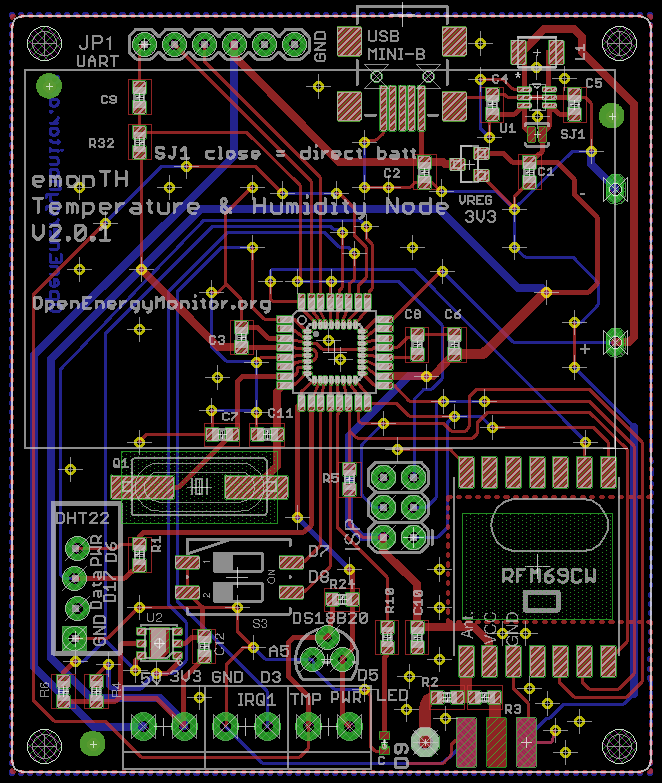
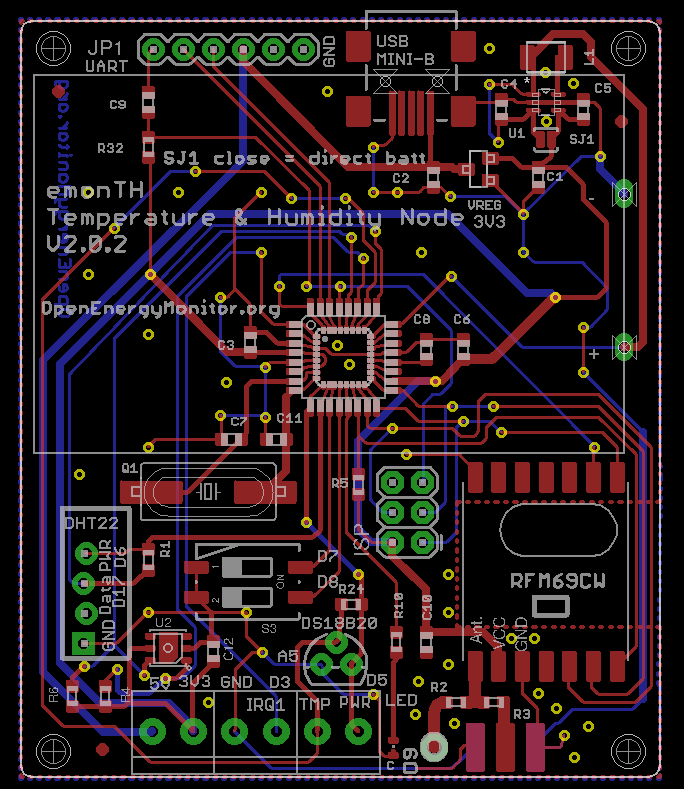
update portmap & sch + brd img

diff --git a/hardware/readme.md b/hardware/readme.md
@@ -19,31 +19,31 @@
 
 # Port Map
 
-|                |           |            |                       |                       |
-|----------------|-----------|------------|-----------------------|-----------------------|
-| Arduino        | ATmega328 | Function   | emonTH V1.5           | emonTH V2             |
-| Analog 0 (D14) | PC0       |            |                       |                       |
-| Analog 1 (D15) | PC1       |            | 2x AA Battery Voltage | 2x AA Battery Voltage |
-| Analog 2 (D16) | PC2       |            |                       | DHT22 Data            |
-| Analog 3 (D17) | PC3       |            |                       | DS18B20 One-wire Data |
-| Analog 4 (D18) | PC4       | (SDA)      | DHT22 Data            | SI7021 SDA (Data)     |
-| Analog 5 (D19) | PC5       | (SCL)      | DS18B20 One-wire Data | SI7021 SCL (SCK)      |
-| Analog 6 (D20) |           |            |                       |                       |
-| Analog 7 (D21) |           |            |                       |                       |
-| Digital 0      | PD0       | (RXD)      | FTDI Tx               | FTDI Tx               |
-| Digital 1      | PD1       | (TXD)      | FTDI Rx               | FTDI Rx               |
-| Digital 2      | PD2       | (int0) PWM | RFM12B IRQ            | RFM69CW IRQ           |
-| Digital 3      | PD3       | (int1) PWM | Terminal block        | Terminal block        |
-| Digital 4      | PD4       |            |                       |                       |
-| Digital 5      | PD5       | PWM        | DS18B20 PWR           | DS18B20 PWR           |
-| Digital 6      | PD6       | PWM        | DHT22 PWR             | DHT22 PWR             |
-| Digital 7      | PD7       |            | DIP 1                 | DIP 1                 |
-| Digital 8      | PB0       |            | DIP 2                 | DIP 2                 |
-| Digital 9      | PB1       | PWM        | LED                   | LED                   |
-| Digital 10     | PB2       | (SS) PWM   | RFM12B SEL            | RFM69CW SEL           |
-| Digital 11     | PB3       | (MOSI) PWM | RFM12 SDI             | RFM69CW SDI           |
-| Digital 12     | PB4       | (MISO)     | RFM12 SDO             | RFM69CW SDO           |
-| Digital 13     | PB5       | (SCK)      | RFM12 SCK             | RFM69CW SCK           |
+|                |           |            |                       |
+|----------------|-----------|------------|-----------------------|
+| Arduino        | ATmega328 | Function   | emonTH V2             |
+| Analog 0 (D14) | PC0       |            |                       |
+| Analog 1 (D15) | PC1       |            | 2x AA Battery Voltage |
+| Analog 2 (D16) | PC2       |            | DHT22 Data            |
+| Analog 3 (D17) | PC3       |            | DS18B20 One-wire Data |
+| Analog 4 (D18) | PC4       | (SDA)      | SI7021 SDA (Data)     |
+| Analog 5 (D19) | PC5       | (SCL)      | SI7021 SCL (SCK)      |
+| Analog 6 (D20) |           |            |                       |
+| Analog 7 (D21) |           |            |                       |
+| Digital 0      | PD0       | (RXD)      | FTDI Tx               |
+| Digital 1      | PD1       | (TXD)      | FTDI Rx               |
+| Digital 2      | PD2       | (int0) PWM | RFM69CW IRQ           |
+| Digital 3      | PD3       | (int1) PWM | Terminal block        |
+| Digital 4      | PD4       |            |                       |
+| Digital 5      | PD5       | PWM        | DS18B20 PWR           |
+| Digital 6      | PD6       | PWM        | DHT22 PWR             |
+| Digital 7      | PD7       |            | DIP 1                 |
+| Digital 8      | PB0       |            | DIP 2                 |
+| Digital 9      | PB1       | PWM        | LED                   |
+| Digital 10     | PB2       | (SS) PWM   | RFM69CW SEL           |
+| Digital 11     | PB3       | (MOSI) PWM | RFM69CW SDI           |
+| Digital 12     | PB4       | (MISO)     | RFM69CW SDO           |
+| Digital 13     | PB5       | (SCK)      | RFM69CW SCK           |
 
 
 # BOM
